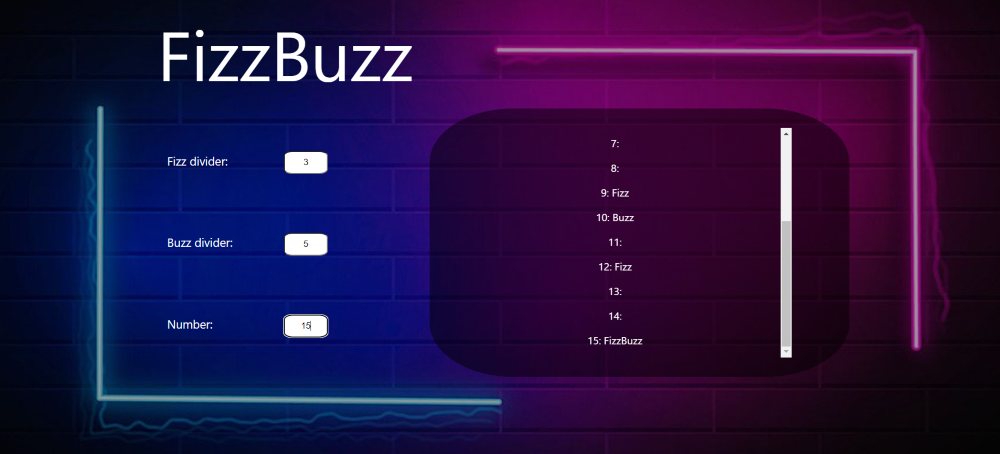
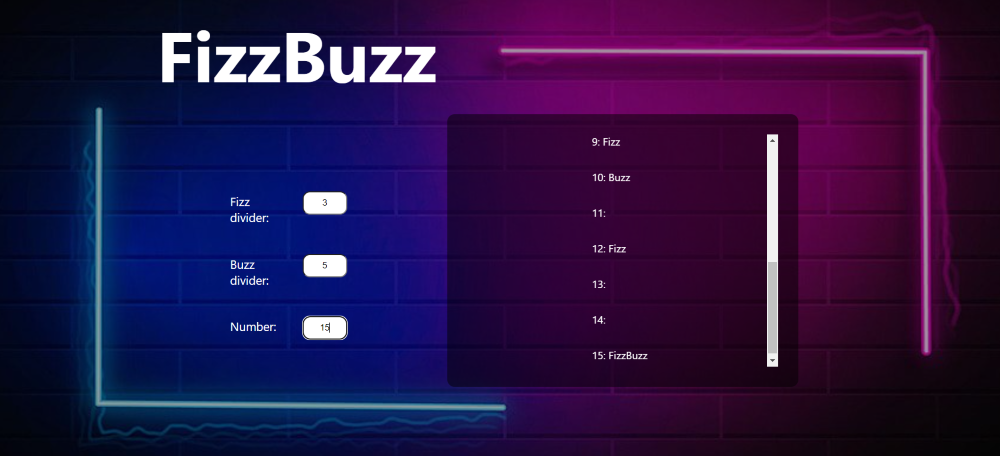
done

diff --git a/src/Content.js b/src/Content.js
@@ -2,42 +2,40 @@ import React, { useState } from "react";
 import "./App.css";
 
 export default function Content() {
-  const [fizzDiv, setFizzDiv] = useState(3);
-  const [buzzDiv, setBuzzDiv] = useState(5);
+  const [fizzDivider, setFizzDivider] = useState(3);
+  const [buzzDivider, setBuzzDivider] = useState(5);
   const [numbers, setNumbers] = useState([]);
 
-  const handleNumber = (e) => {
-    const arr = Array.from({ length: e.target.value }, (_, i) => i + 1);
-    setNumbers(arr);
+  const handleNumber = (event) => {
+    setNumbers(Array.from({ length: event.target.value }, (_, i) => i + 1));
   };
 
-  const handleDividers = (e) => {
-    if (e.target.id === "FizzDiv") {
-      setFizzDiv(e.target.value);
+  const handleDividers = (event) => {
+    if (event.target.name === "fizz") {
+      setFizzDivider(event.target.value);
     } else {
-      setBuzzDiv(e.target.value);
+      setBuzzDivider(event.target.value);
     }
   };
 
   return (
     <div className="Container">
-      <div className="Input-form">
+      <div className="InputForm">
         <p>Fizz divider:</p>
-        <input id="FizzDiv" value={fizzDiv} onChange={handleDividers} />
+        <input name="fizz" value={fizzDivider} onChange={handleDividers} />
         <p>Buzz divider:</p>
-        <input id="BuzzDiv" value={buzzDiv} onChange={handleDividers} />
+        <input name="buzz" value={buzzDivider} onChange={handleDividers} />
         <p>Number:</p>
-        <input id="Number" onChange={handleNumber} />
+        <input onChange={handleNumber} />
       </div>
-      <div className="Scroll-bg">
-        <div className="Scroll-div">
-          {numbers &&
-            numbers.map((num) => (
-              <p key={num}>
-                {num}: {num % fizzDiv === 0 ? "Fizz" : ""}
-                {num % buzzDiv === 0 ? "Buzz" : ""}
-              </p>
-            ))}
+      <div className="ScrollBackground">
+        <div className="NumberList">
+          {numbers.map((num) => (
+            <p key={num}>
+              {num}: {num % fizzDivider === 0 ? "Fizz" : ""}
+              {num % buzzDivider === 0 ? "Buzz" : ""}
+            </p>
+          ))}
         </div>
       </div>
     </div>

diff --git a/src/App.css b/src/App.css
@@ -1,4 +1,4 @@
-.App-header {
+.App {
   min-height: 100vh;
   display: flex;
   flex-direction: column;
@@ -17,17 +17,16 @@
 }
 
 .Container {
-  /* background-color: aqua; */
   height: 60vh;
-  width: 70%;
-  align-self: center;
-  display: grid;
-  grid-template-columns: 40% 60%;
-  padding: 20px;
+  display: flex;
+  justify-content: center;
+  align-items: center;
+  gap: 100px;
+  padding: 20px 100px;
 }
 
-.Input-form {
-  padding: 30px 30px;
+.InputForm {
+  padding: 30px;
   display: grid;
   grid-template-columns: 40% 60%;
   gap: 10px 30px;
@@ -38,27 +37,25 @@ input {
   height: 30px;
   width: 60px;
   display: block;
-  border-radius: 20%;
+  border-radius: 11px;
   margin-top: 15px;
   text-align: center;
 }
 
-.Scroll-bg {
+.ScrollBackground {
   background-color: rgba(0, 0, 0, 0.5);
-  border-radius: 20%;
+  border-radius: 11px;
   margin-top: -20px;
   margin-bottom: 20px;
   padding: 30px;
   height: 350px;
-  width: 90%;
+  width: 35%;
 }
 
-.Scroll-div {
+.NumberList {
   height: 350px;
-  width: 90%;
-  overflow: hidden;
+  display: flex;
+  flex-direction: column;
   overflow-y: scroll;
-  align-self: center;
-  justify-self: center;
-  text-align: center;
+  padding-left: 40%;
 }

diff --git a/src/App.js b/src/App.js
@@ -3,11 +3,9 @@ import Content from "./Content";
 
 function App() {
   return (
-    <div>
-      <header className="App-header">
-        <p className="Title">FizzBuzz</p>
-        <Content />
-      </header>
+    <div className="App">
+      <h1 className="Title">FizzBuzz</h1>
+      <Content />
     </div>
   );
 }
